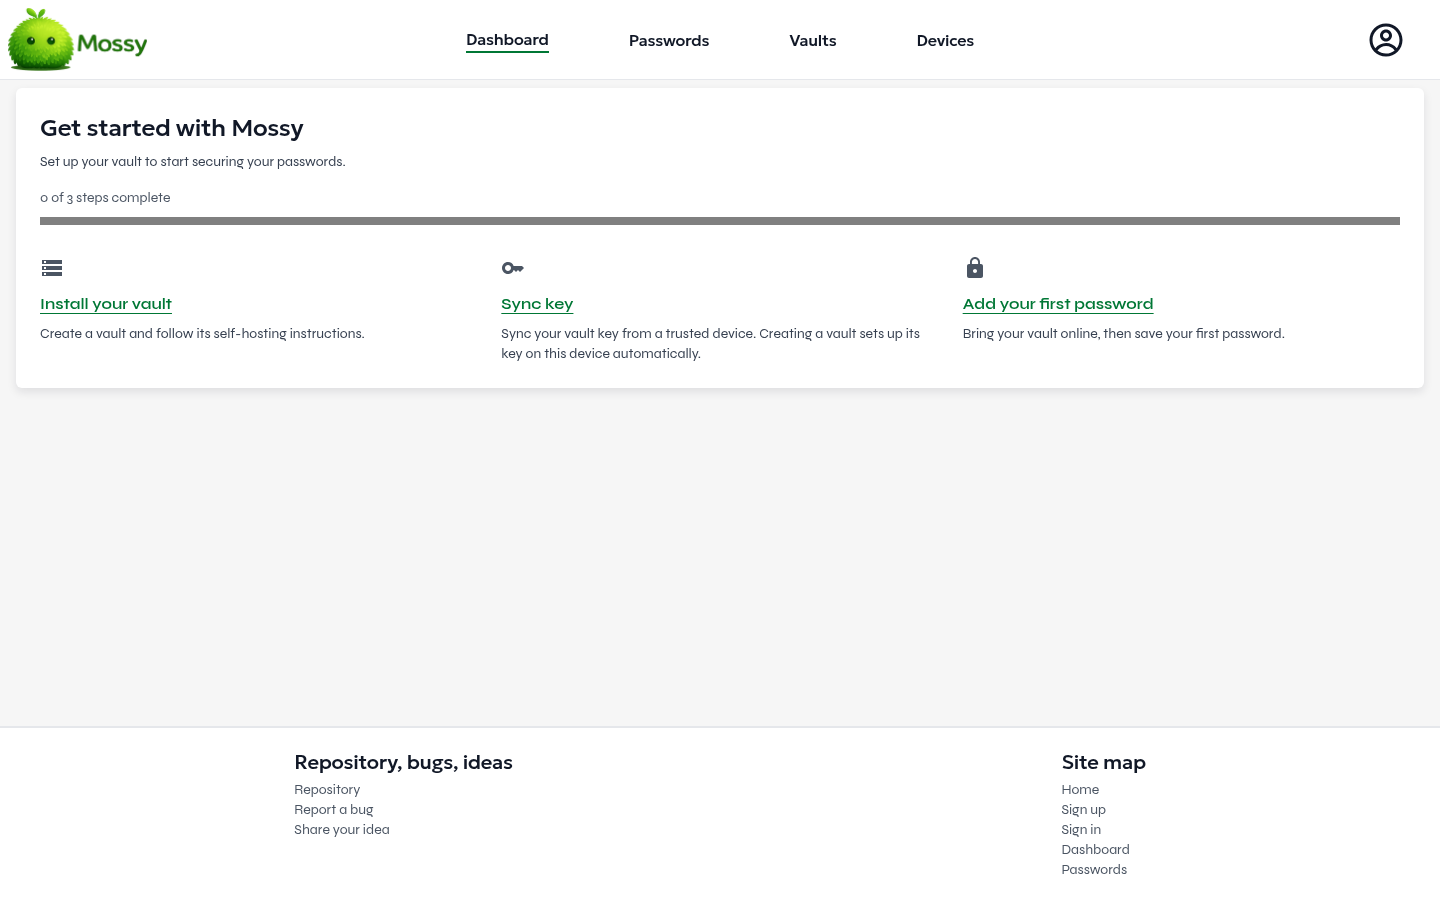
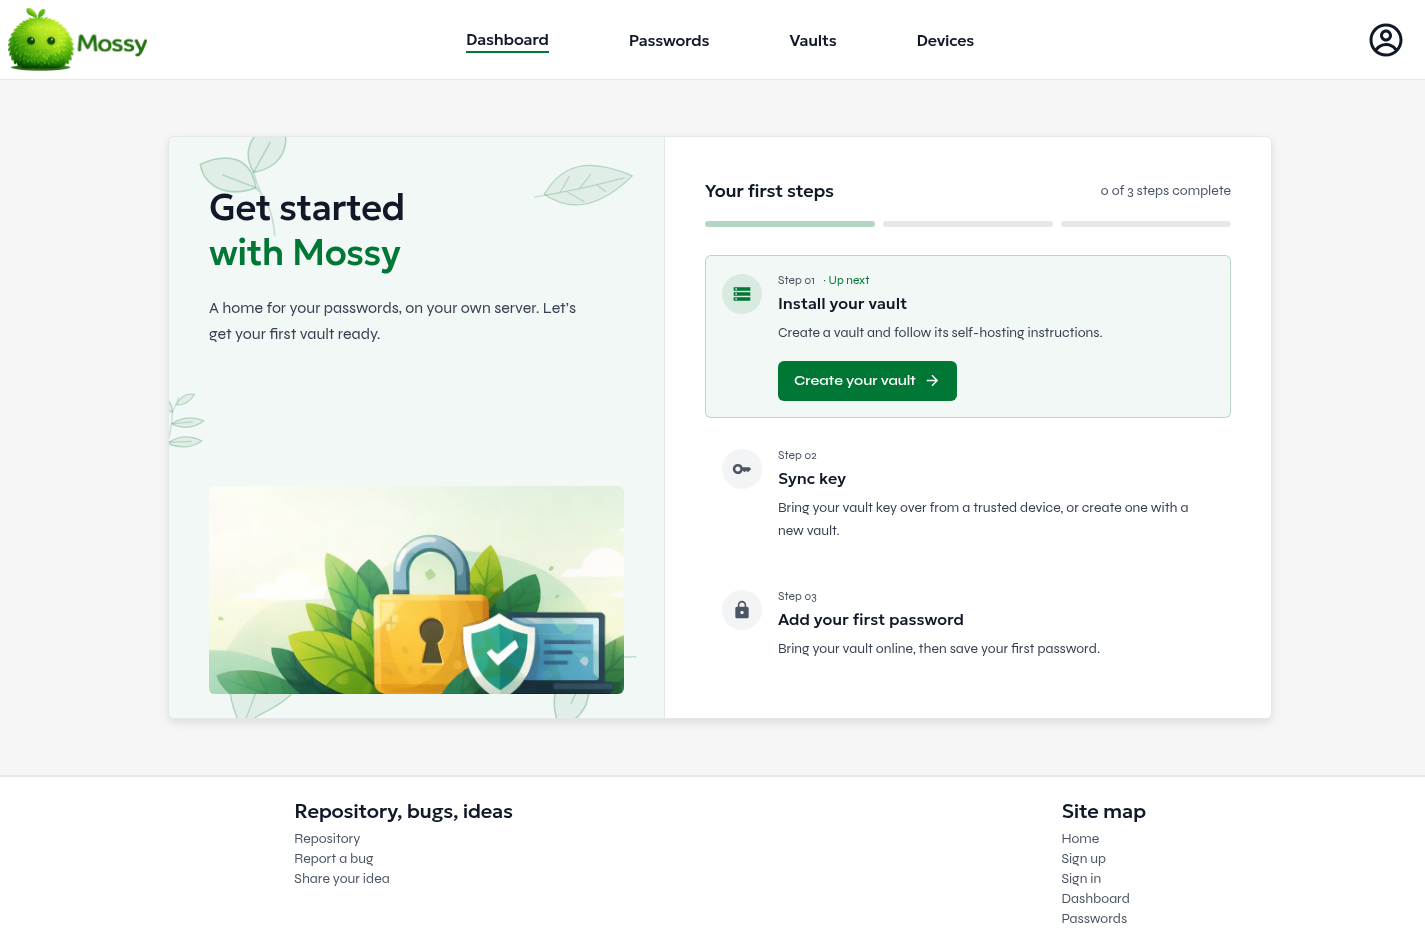
refine(frontend): give dashboard onboarding Mossy's botanical style

diff --git a/mossy-frontend/src/ui/dashboard/DashboardOnboarding.tsx b/mossy-frontend/src/ui/dashboard/DashboardOnboarding.tsx
@@ -1,6 +1,14 @@
 import { useEffect, useState } from 'react';
 import { Link } from 'react-router-dom';
-import { MdCheckCircle, MdKey, MdLock, MdStorage } from 'react-icons/md';
+import {
+    MdArrowForward,
+    MdCheck,
+    MdKey,
+    MdLock,
+    MdStorage,
+} from 'react-icons/md';
+import { motion, useReducedMotion } from 'framer-motion';
+import SectionLeaves from '../shared/SectionLeaves.tsx';
 import { getDeviceDatabase } from '../../auth/deviceIdentity.ts';
 import type { UserVaultDto } from '../../api/vault.api.ts';
 
@@ -9,6 +17,7 @@ export default function DashboardOnboarding({
 }: {
     vaults: UserVaultDto[];
 }) {
+    const reducedMotion = useReducedMotion();
     const [keyVaultId, setKeyVaultId] = useState<string | null>(null);
 
     useEffect(() => {
@@ -45,14 +54,17 @@ export default function DashboardOnboarding({
             description:
                 'Create a vault and follow its self-hosting instructions.',
             to: '/vaults',
+            action: 'Create your vault',
             done: hasVault,
             Icon: MdStorage,
         },
         {
             title: 'Sync key',
-            description:
-                'Sync your vault key from a trusted device. Creating a vault sets up its key on this device automatically.',
+            description: hasKey
+                ? 'Your vault key is ready on this device.'
+                : 'Bring your vault key over from a trusted device, or create one with a new vault.',
             to: '/key-sync',
+            action: 'Sync your key',
             done: hasKey,
             Icon: MdKey,
         },
@@ -61,64 +73,144 @@ export default function DashboardOnboarding({
             description:
                 'Bring your vault online, then save your first password.',
             to: '/passwords',
+            action: 'Add a password',
             done: false,
             Icon: MdLock,
         },
     ];
+    const nextStep = steps.findIndex((step) => !step.done);
 
     return (
-        <section
-            className="mx-4 my-2 rounded-md bg-surface p-6 shadow-card"
+        <motion.section
+            className="mx-auto w-full max-w-6xl px-4 py-6 sm:px-6 sm:py-10 lg:py-14"
             aria-labelledby="onboarding-title"
+            initial={reducedMotion ? false : { opacity: 0, y: 12 }}
+            animate={{ opacity: 1, y: 0 }}
+            transition={{ duration: 0.35, ease: 'easeOut' }}
         >
-            <h1 id="onboarding-title" className="text-2xl">
-                Get started with Mossy
-            </h1>
-            <p className="mt-2 text-sm text-fg-secondary">
-                Set up your vault to start securing your passwords.
-            </p>
-            <p className="mt-4 text-sm text-fg-muted">
-                {completed} of 3 steps complete
-            </p>
-            <progress
-                className="mt-2 h-2 w-full accent-brand"
-                value={completed}
-                max={3}
-                aria-label="Setup progress"
-            />
-            <ol className="mt-6 grid gap-6 sm:grid-cols-3">
-                {steps.map(({ title, description, to, done, Icon }) => (
-                    <li key={title}>
-                        {done ? (
-                            <MdCheckCircle
-                                className="text-brand"
-                                size={24}
-                                aria-hidden="true"
-                            />
-                        ) : (
-                            <Icon
-                                className="text-fg-muted"
-                                size={24}
-                                aria-hidden="true"
-                            />
-                        )}
-                        <Link
-                            to={to}
-                            className="mt-3 inline-block rounded-sm font-semibold text-brand underline underline-offset-4 focus-visible:outline-none focus-visible:ring-2 focus-visible:ring-brand"
+            <div className="grid overflow-hidden rounded-md border border-border bg-surface shadow-card md:grid-cols-[0.9fr_1.1fr]">
+                <div className="relative flex flex-col justify-between bg-brand/5 px-6 pt-7 pb-5 sm:px-10 sm:pt-12 sm:pb-6 md:border-r md:border-border">
+                    <SectionLeaves variant="sprigs" />
+                    <div className="relative">
+                        <h1
+                            id="onboarding-title"
+                            className="max-w-sm text-3xl leading-tight sm:text-4xl"
                         >
-                            {title}
-                        </Link>
-                        {done && (
-                            <span className="ml-2 text-sm text-fg-muted">
-                                Complete
-                            </span>
-                        )}
-                        <p className="mt-2 text-sm text-fg-secondary">
-                            {description}
+                            Get started{' '}
+                            <span className="block text-brand">with Mossy</span>
+                        </h1>
+                        <p className="mt-5 max-w-sm text-base leading-relaxed text-fg-secondary">
+                            A home for your passwords, on your own server. Let’s
+                            get your first vault ready.
                         </p>
-                    </li>
-                ))}
-            </ol>
-        </section>
+                    </div>
+                    <img
+                        src="/hero.png"
+                        width="2048"
+                        height="600"
+                        alt=""
+                        className="relative mt-5 h-24 w-full rounded-md object-cover object-[72%_center] sm:mt-8 sm:h-44 md:mt-12 md:h-52"
+                    />
+                </div>
+                <div className="px-5 py-7 sm:p-9 lg:p-10">
+                    <div className="flex items-center justify-between gap-3">
+                        <h2 className="text-lg">Your first steps</h2>
+                        <p
+                            className="text-xs text-fg-muted sm:text-sm"
+                            aria-live="polite"
+                        >
+                            {completed} of 3 steps complete
+                        </p>
+                    </div>
+                    <progress
+                        className="sr-only"
+                        value={completed}
+                        max={3}
+                        aria-label="Setup progress"
+                    />
+                    <div
+                        className="mt-4 grid grid-cols-3 gap-2"
+                        aria-hidden="true"
+                    >
+                        {steps.map((step, index) => (
+                            <div
+                                key={step.title}
+                                className={`h-1.5 rounded-full ${step.done ? 'bg-brand' : index === nextStep ? 'bg-brand/30' : 'bg-border'}`}
+                            />
+                        ))}
+                    </div>
+                    <ol className="mt-7 space-y-3">
+                        {steps.map(
+                            (
+                                { title, description, to, done, action, Icon },
+                                index
+                            ) => {
+                                const isNext = index === nextStep;
+                                return (
+                                    <li key={title}>
+                                        <Link
+                                            to={to}
+                                            aria-label={title}
+                                            aria-current={
+                                                isNext ? 'step' : undefined
+                                            }
+                                            className={`group flex gap-4 rounded-md border p-4 transition-colors focus-visible:outline-none focus-visible:ring-2 focus-visible:ring-brand focus-visible:ring-offset-2 motion-reduce:transition-none ${isNext ? 'border-brand/25 bg-brand/5 hover:bg-brand/10' : 'border-transparent hover:bg-surface-subtle'}`}
+                                        >
+                                            <span
+                                                className={`mt-0.5 flex h-10 w-10 shrink-0 items-center justify-center rounded-full ${done ? 'bg-brand text-fg-inverse' : isNext ? 'bg-brand/10 text-brand' : 'bg-surface-muted text-fg-muted'}`}
+                                            >
+                                                {done ? (
+                                                    <MdCheck
+                                                        size={20}
+                                                        aria-hidden="true"
+                                                    />
+                                                ) : (
+                                                    <Icon
+                                                        size={20}
+                                                        aria-hidden="true"
+                                                    />
+                                                )}
+                                            </span>
+                                            <span className="min-w-0 flex-1">
+                                                <span className="mb-1 flex items-center gap-2 text-xs text-fg-muted">
+                                                    Step 0{index + 1}
+                                                    {done && (
+                                                        <span className="text-brand">
+                                                            {' '}
+                                                            · Complete
+                                                        </span>
+                                                    )}
+                                                    {isNext && (
+                                                        <span className="text-brand">
+                                                            {' '}
+                                                            · Up next
+                                                        </span>
+                                                    )}
+                                                </span>
+                                                <span className="block font-heading text-base leading-snug">
+                                                    {title}
+                                                </span>
+                                                <span className="mt-2 block text-sm leading-relaxed text-fg-secondary">
+                                                    {description}
+                                                </span>
+                                                {isNext && (
+                                                    <span className="mt-4 inline-flex items-center gap-2 rounded-md bg-brand px-4 py-2.5 text-sm font-semibold text-fg-inverse group-hover:bg-brand-hover">
+                                                        {action}
+                                                        <MdArrowForward
+                                                            size={17}
+                                                            aria-hidden="true"
+                                                        />
+                                                    </span>
+                                                )}
+                                            </span>
+                                        </Link>
+                                    </li>
+                                );
+                            }
+                        )}
+                    </ol>
+                </div>
+            </div>
+        </motion.section>
     );
 }

diff --git a/mossy-frontend/src/ui/dashboard/DashboardOnboarding.test.tsx b/mossy-frontend/src/ui/dashboard/DashboardOnboarding.test.tsx
@@ -60,6 +60,11 @@ it('guides an empty account to all three setup pages', async () => {
         );
     }
     expect(screen.queryByText('No password history yet.')).toBeNull();
+    expect(
+        screen
+            .getByRole('link', { name: 'Install your vault' })
+            .getAttribute('aria-current')
+    ).toBe('step');
 });
 
 it.each([false, true])(
@@ -88,6 +93,13 @@ it.each([false, true])(
         expect(
             (screen.getByRole('progressbar') as HTMLProgressElement).value
         ).toBe(hasKey ? 2 : 1);
+        expect(
+            screen
+                .getByRole('link', {
+                    name: hasKey ? 'Add your first password' : 'Sync key',
+                })
+                .getAttribute('aria-current')
+        ).toBe('step');
     }
 );
 
